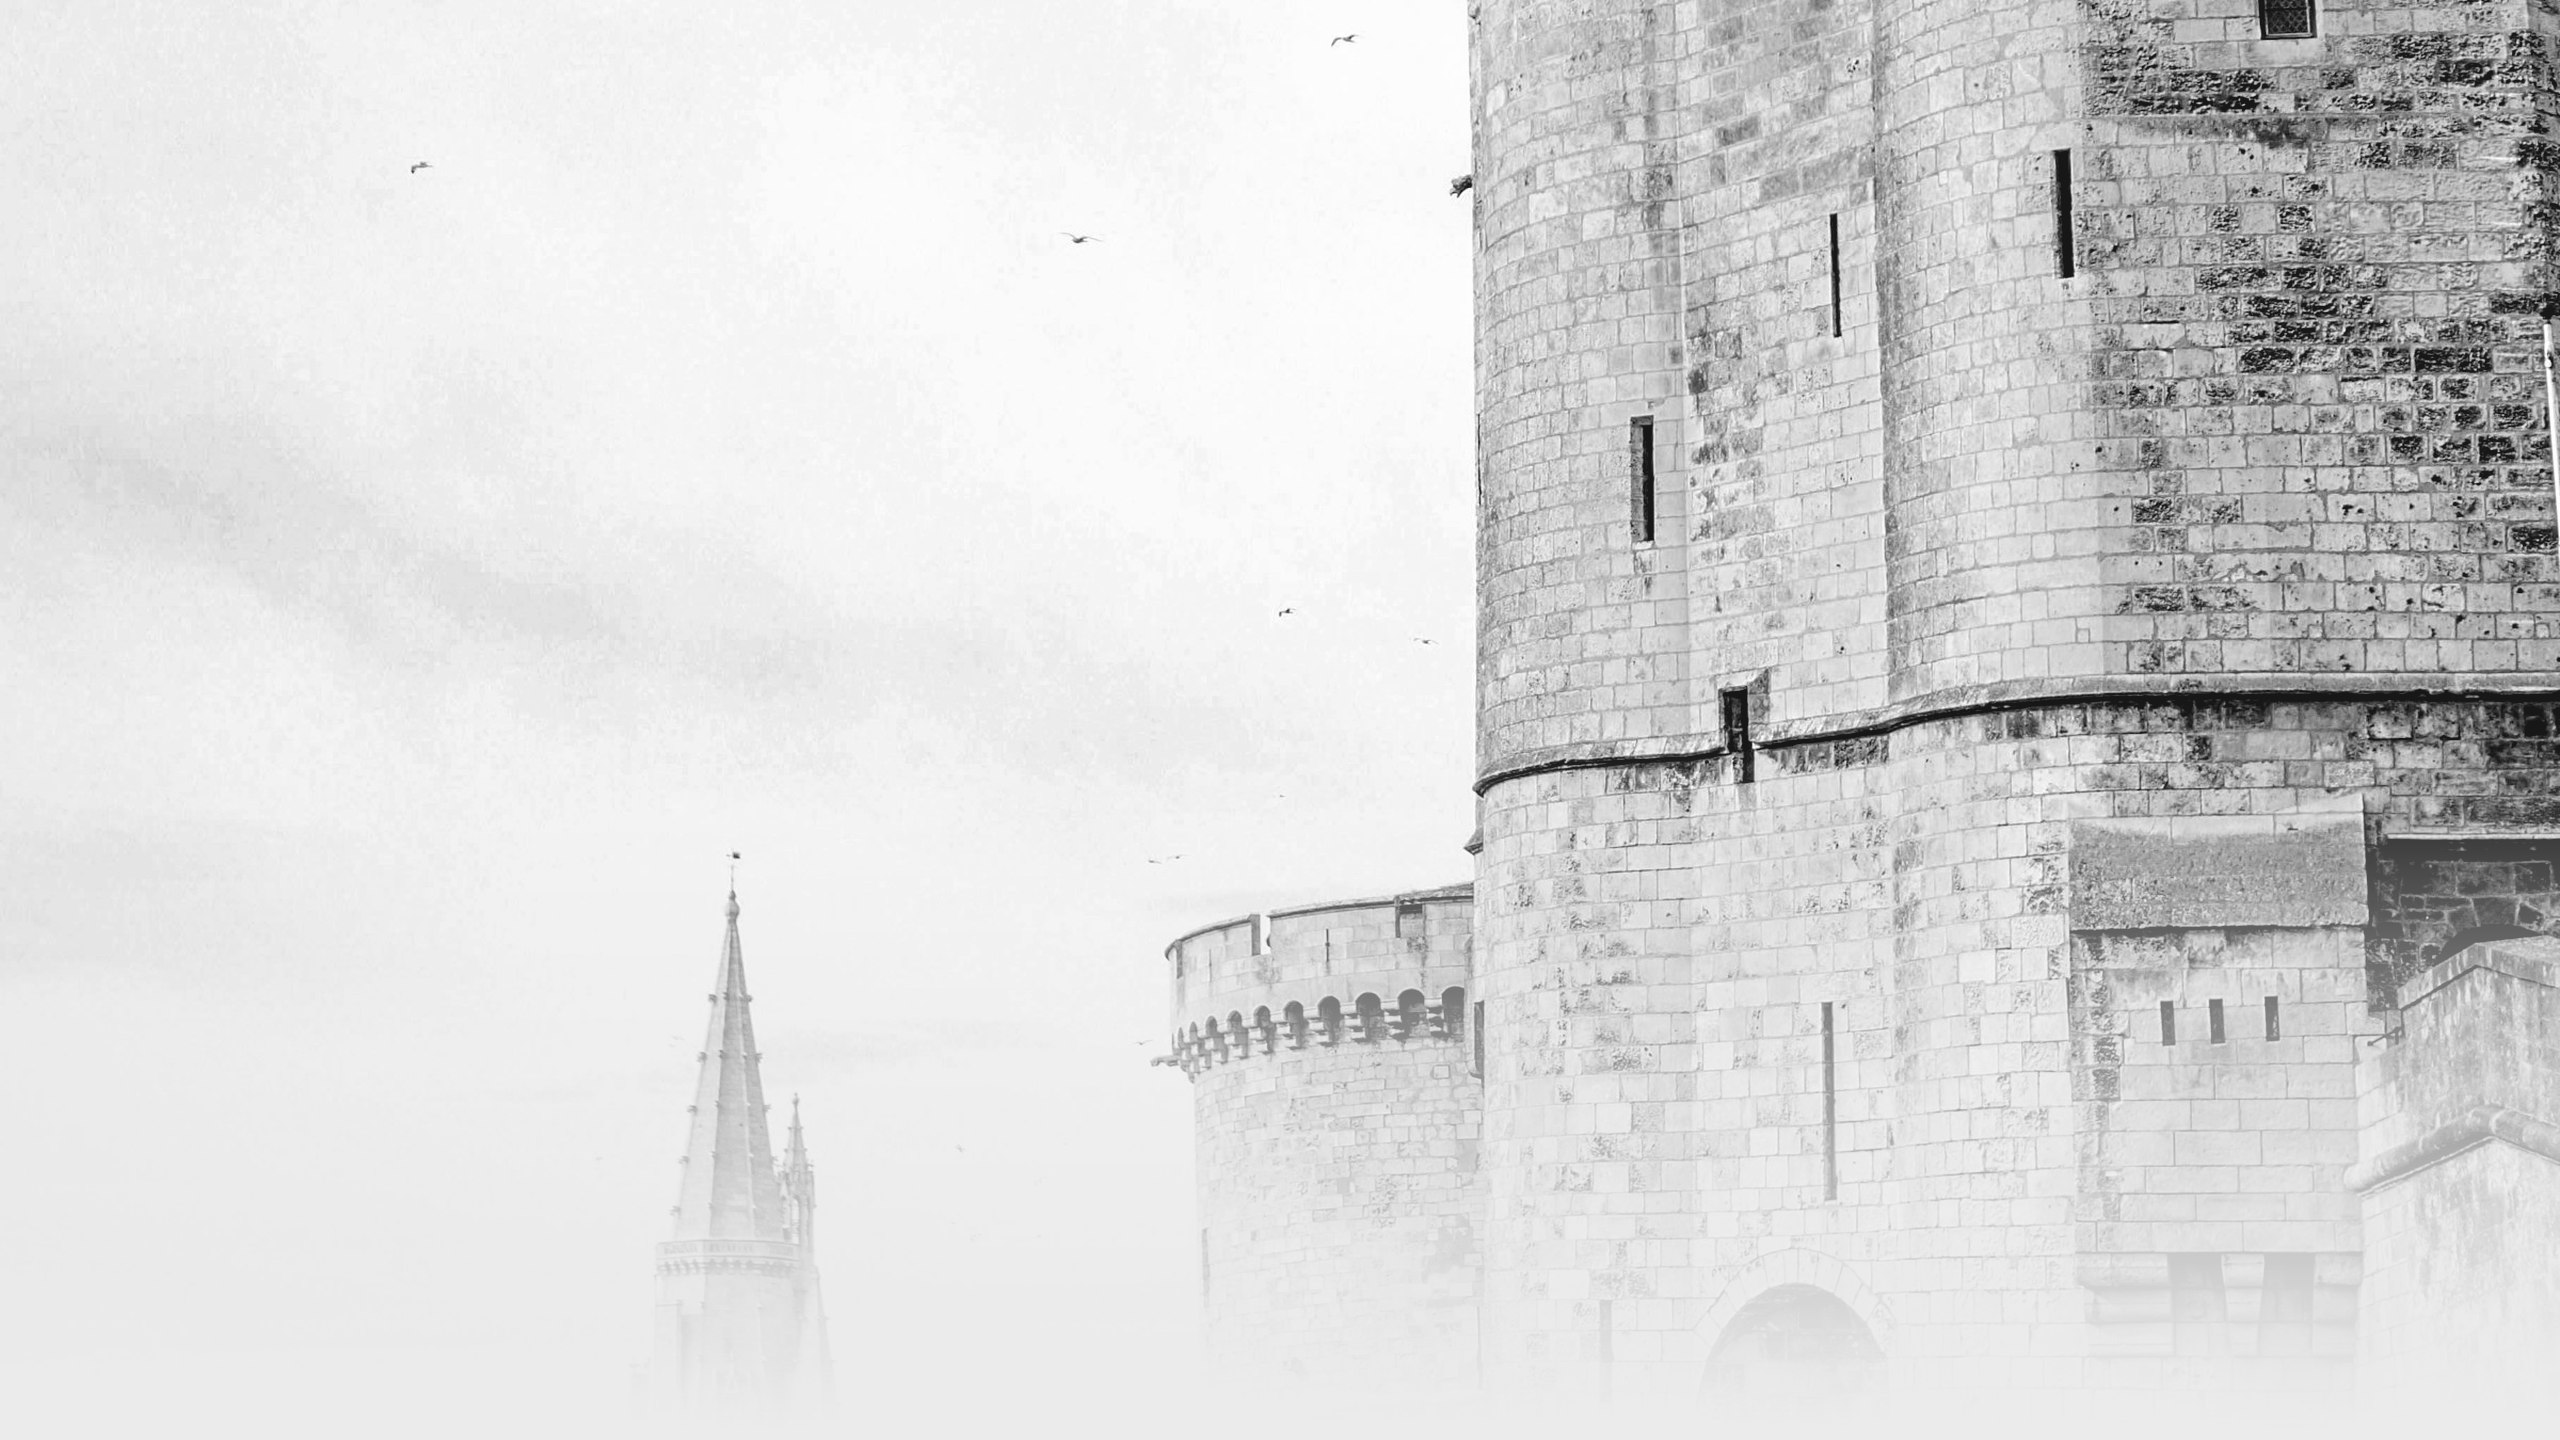
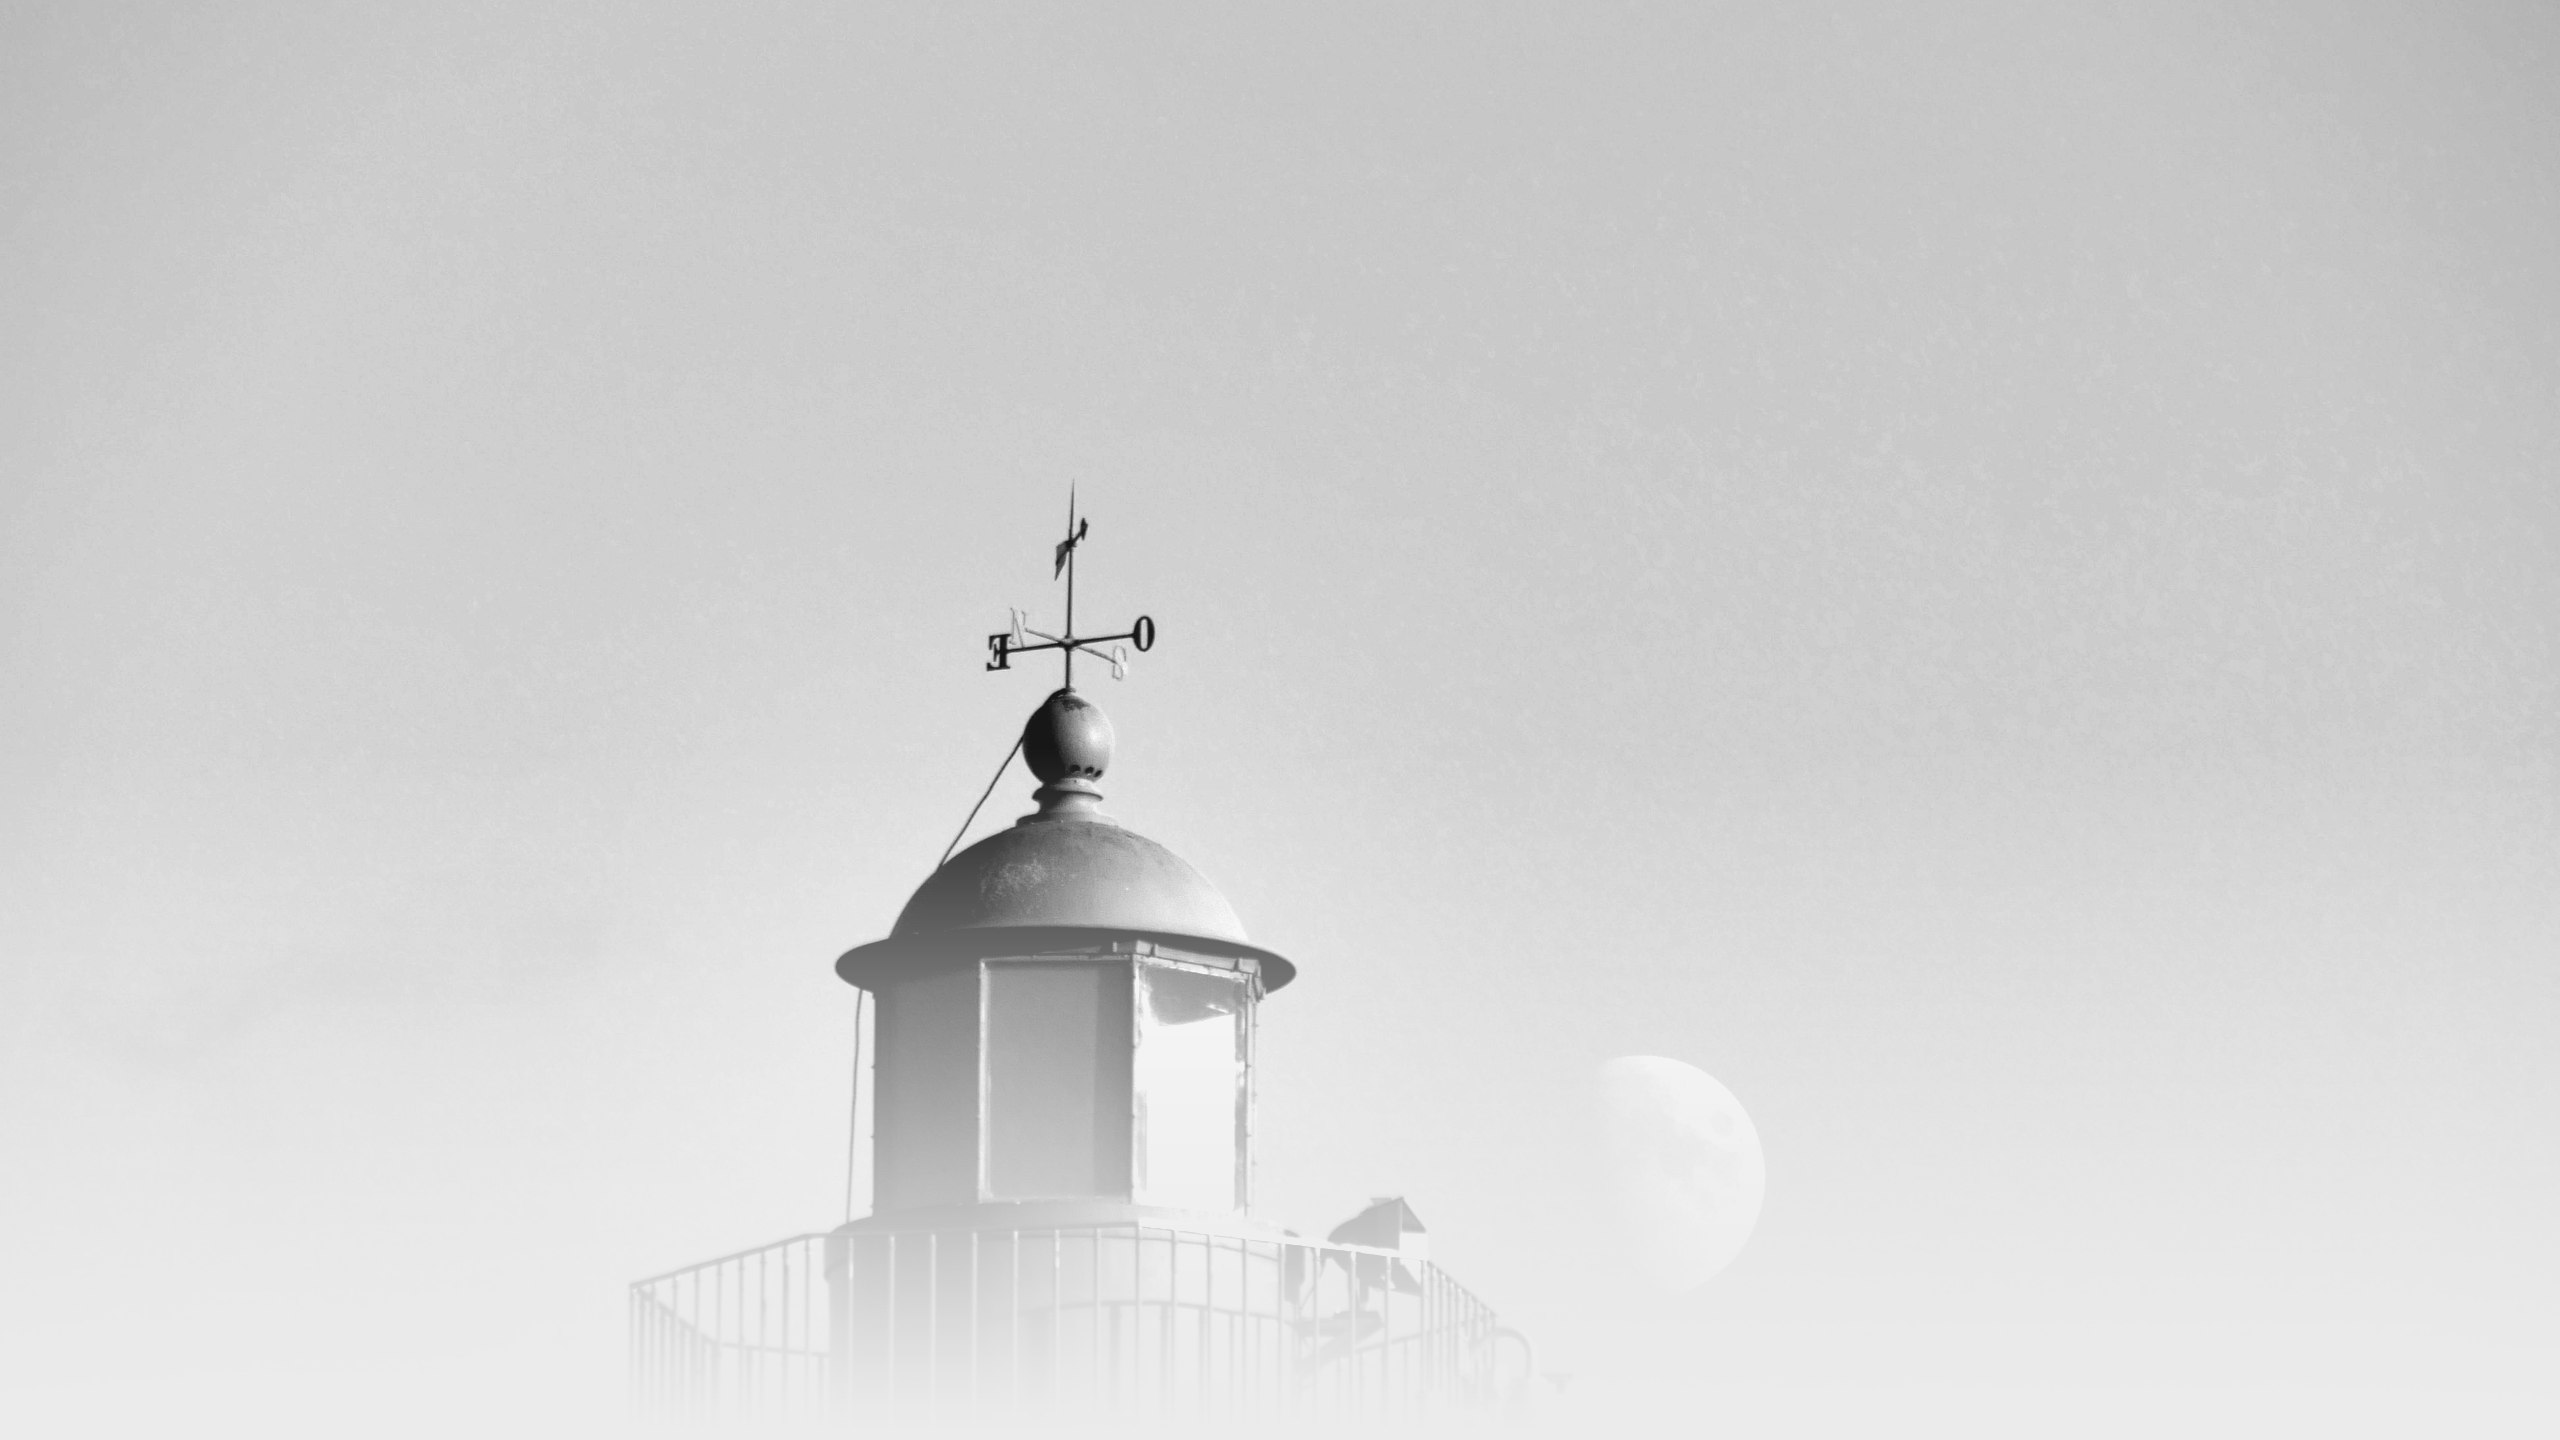
Every card gets the ground of the city it is posted from
Same recipe as the French cards: a 16:9 band cropped from the photograph,
greyscale and autocontrasted, 10 percent toward the neutral grey, dissolving into
that exact grey over its lower half, laid across the top of the page and scrolling
with it.

- France 01: the second La Rochelle photograph, the lighthouse, so the two French
  cards show different views of the same harbour
- France 02: unchanged, the harbour towers
- Italy: Naples, Castel dell'Ovo and the rocks
- Spain: Barcelona, the Casa Batllo roofline
- Belgium: Antwerp, the quay and the cathedral spire

Belgium was still a scaffold and stays one, it has the ground but not the copy.
Naples and Barcelona were re-encoded at a lower quality, a background has no
business costing 750 ko.

diff --git a/belgium/digitale-wolven-postcard-01/index.html b/belgium/digitale-wolven-postcard-01/index.html
@@ -18,10 +18,13 @@
   }
   * { box-sizing: border-box; margin: 0; padding: 0; }
   html, body {
-    background:
-      radial-gradient(ellipse at 18% 12%, #dbffcb 0%, transparent 42%),
-      radial-gradient(ellipse at 82% 72%, #cbecff 0%, transparent 46%),
-      #f7f4e8;
+    /* The sending city runs across the top of the page at full contrast and
+       dissolves as you scroll, into a neutral grey rather than the cream, which
+       was flattening it. The dissolve is baked into the asset, so the colour that
+       carries on below is the exact one the photograph ends on: no visible join,
+       whatever the unfolded height. */
+    background: url('city-band-g1.jpg') center top / 100% auto no-repeat scroll,
+      rgb(235, 235, 235);
     font-family: 'Manrope', system-ui, sans-serif; color: var(--ink);
     margin: 0; padding: 0;
   }

diff --git a/italy/faro-postcard-01/index.html b/italy/faro-postcard-01/index.html
@@ -18,10 +18,13 @@
   }
   * { box-sizing: border-box; margin: 0; padding: 0; }
   html, body {
-    background:
-      radial-gradient(ellipse at 18% 12%, #ffd9f2 0%, transparent 42%),
-      radial-gradient(ellipse at 82% 72%, #f9eecd 0%, transparent 46%),
-      #f7f4e8;
+    /* The sending city runs across the top of the page at full contrast and
+       dissolves as you scroll, into a neutral grey rather than the cream, which
+       was flattening it. The dissolve is baked into the asset, so the colour that
+       carries on below is the exact one the photograph ends on: no visible join,
+       whatever the unfolded height. */
+    background: url('city-band-g1.jpg') center top / 100% auto no-repeat scroll,
+      rgb(235, 235, 235);
     font-family: 'Manrope', system-ui, sans-serif; color: var(--ink);
     margin: 0; padding: 0;
   }

diff --git a/spain/gorgs-postcard-01/index.html b/spain/gorgs-postcard-01/index.html
@@ -18,10 +18,13 @@
   }
   * { box-sizing: border-box; margin: 0; padding: 0; }
   html, body {
-    background:
-      radial-gradient(ellipse at 18% 12%, #ffd5c1 0%, transparent 42%),
-      radial-gradient(ellipse at 82% 72%, #ffd9f2 0%, transparent 46%),
-      #f7f4e8;
+    /* The sending city runs across the top of the page at full contrast and
+       dissolves as you scroll, into a neutral grey rather than the cream, which
+       was flattening it. The dissolve is baked into the asset, so the colour that
+       carries on below is the exact one the photograph ends on: no visible join,
+       whatever the unfolded height. */
+    background: url('city-band-g1.jpg') center top / 100% auto no-repeat scroll,
+      rgb(235, 235, 235);
     font-family: 'Manrope', system-ui, sans-serif; color: var(--ink);
     margin: 0; padding: 0;
   }
